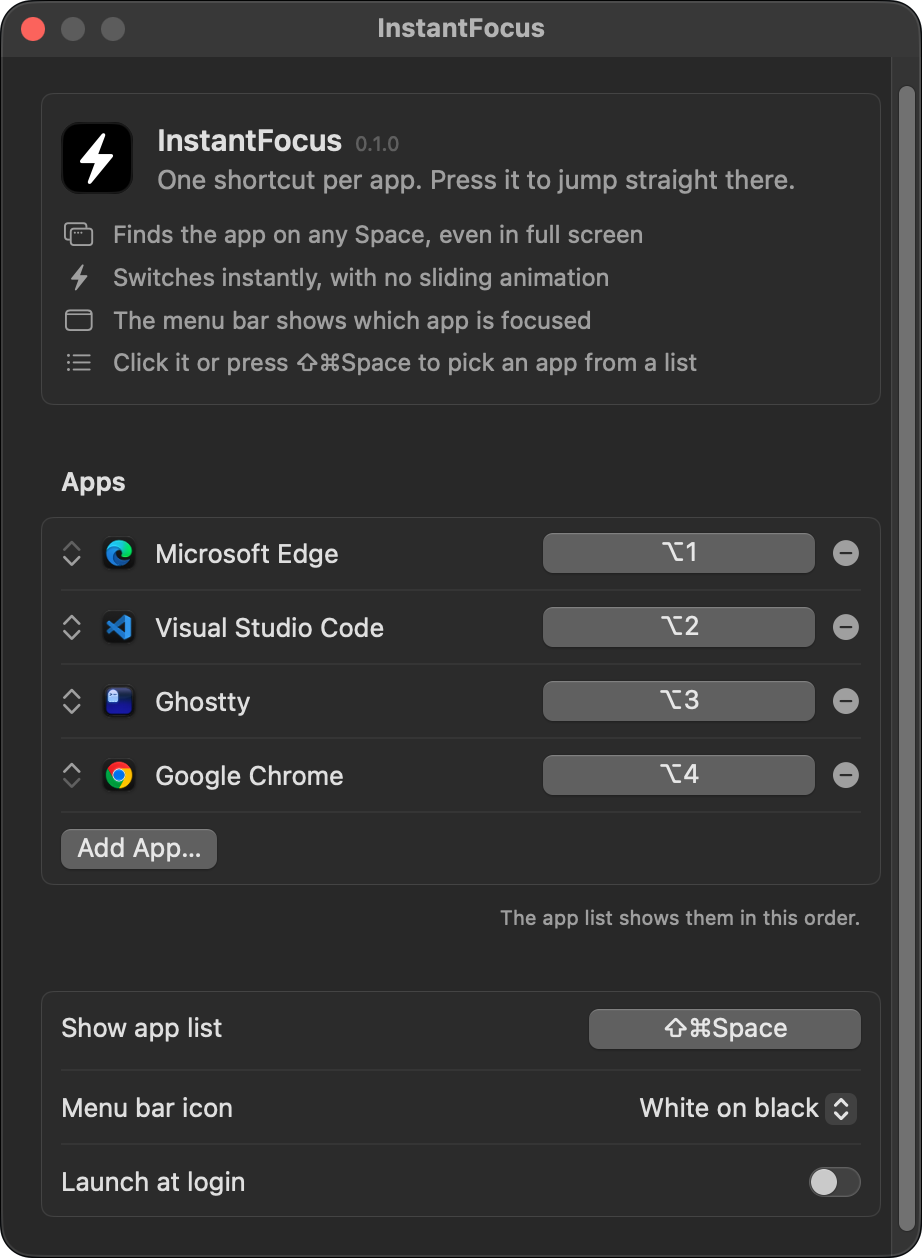
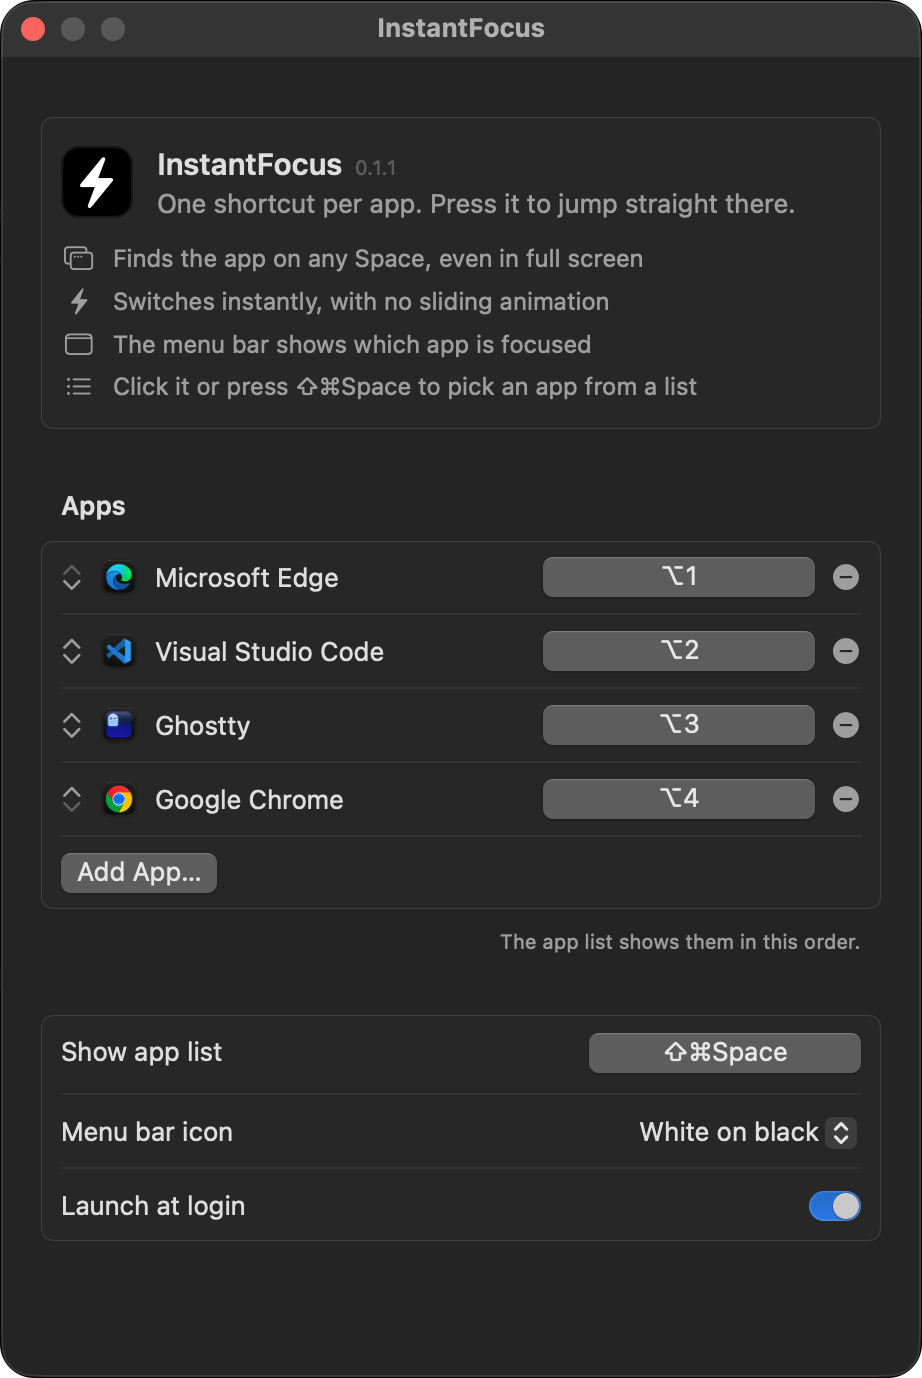
New Settings screenshot (v0.1.1), cropped to the window shape

diff --git a/docs/screenshots/README.md b/docs/screenshots/README.md
@@ -25,7 +25,7 @@ How:
 
 - **Settings window:** ⌘⇧4, Space, **⌥-click** the window: macOS saves exactly the window, rounded
   corners transparent, no shadow. That's the look the README uses. (The current dark ones were
-  cropped to that shape afterwards; they still show v0.1.0 with the old scrollbar, so retake them.)
+  area captures, cropped to that shape afterwards.)
 - **App list:** ⌘⇧Space, then ⌘⇧4, Space, **⌥-click** the open list (menus are windows too).
 - **Demo:** ⌘⇧5 → Record Selected Portion, with KeyCastr showing the keys.
 
